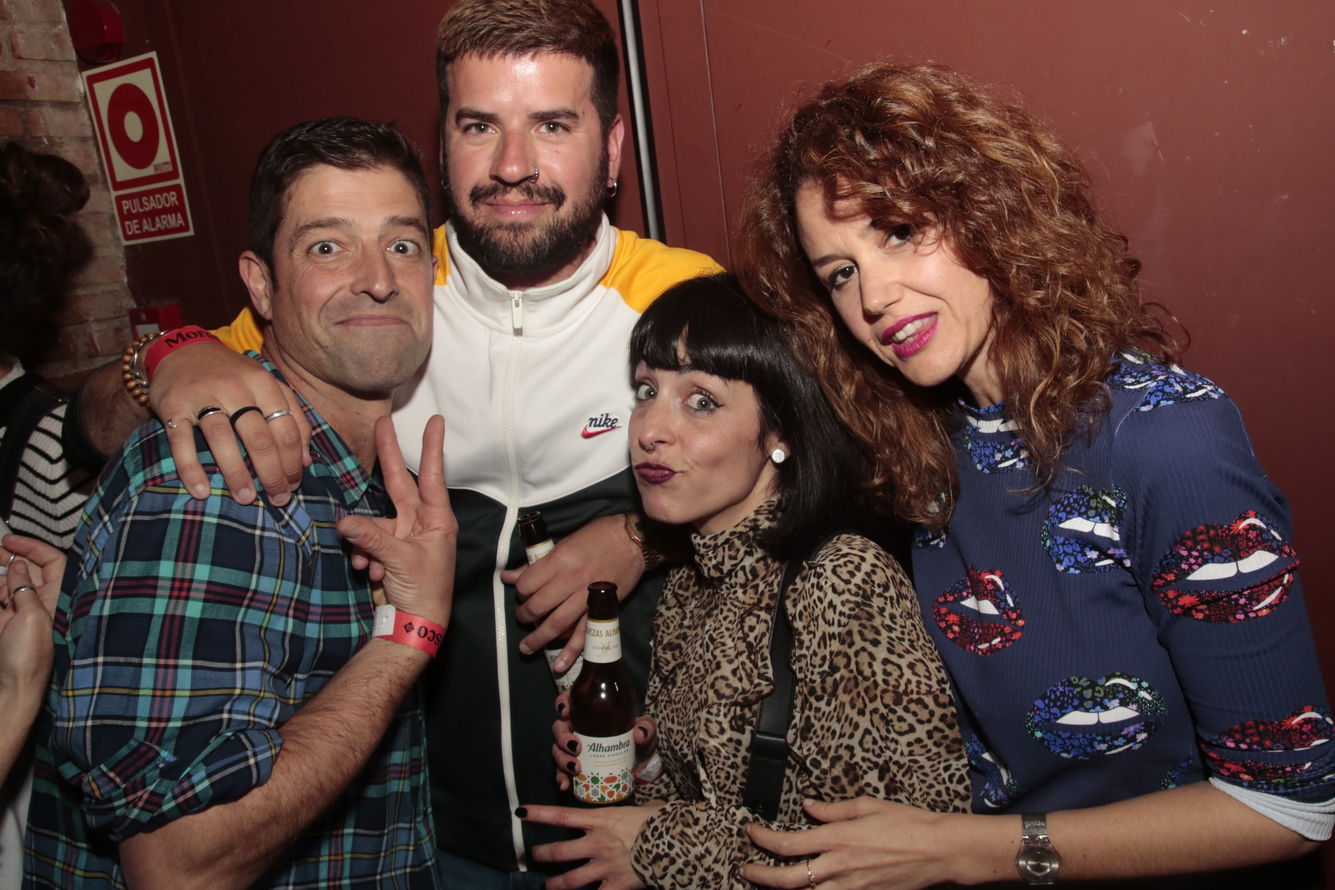
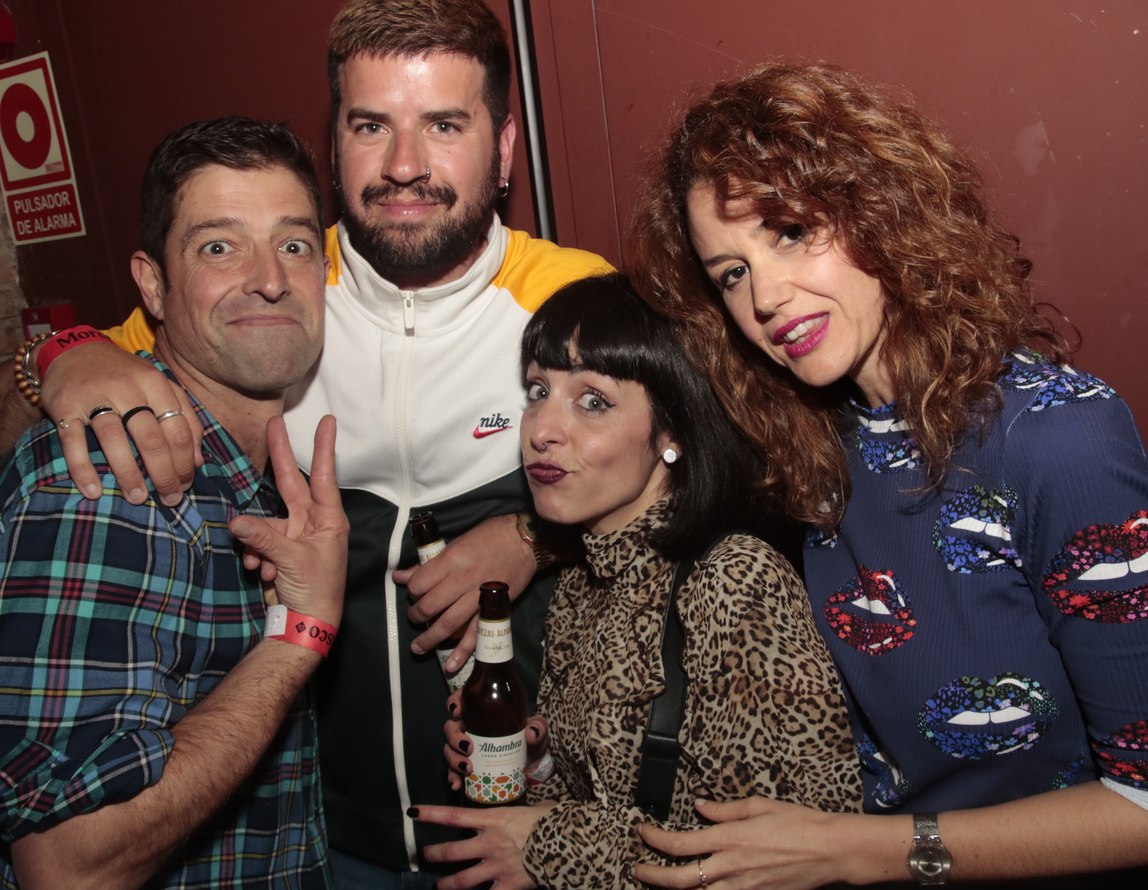
Pure CSS Masonry

diff --git a/src/components/Photo.jsx b/src/components/Photo.jsx
@@ -1,10 +1,9 @@
 import React, { useEffect, useState } from 'react'
 import Loading from './Loading'
 
-export default function Photo(
-  { path, photo } = { src: '', width: 3, height: 2 }
-) {
+export default function Photo({ path, photo, dispatch }) {
   const [loading, setLoading] = useState()
+  const [whenLoadedClasses, setWhenLoadedClasses] = useState('')
 
   useEffect(() => {
     if (!photo || photo.file === '') return
@@ -12,15 +11,26 @@ export default function Photo(
     setLoading(true)
   }, [photo.file])
 
+  const handleOnLoad = () => {
+    setLoading(false)
+    setWhenLoadedClasses(
+      'cursor-pointer md:hover:outline md:hover:outline-1 md:hover:outline-pink-500 transition-all'
+    )
+  }
+
+  const handleClick = () => {
+    if (loading) return
+    dispatch({ type: 'SET_PHOTO', photoIndex: photo.index })
+  }
+
   return (
-    <div
-      className='Photo relative z-10 bg-slate-900/40 w-full h-full object-scale-down'
-      style={{ aspectRatio: `${photo.width} / ${photo.height}` }}>
+    <div className='Photo relative z-10 w-full h-full'>
       {loading && <Loading />}
       <img
-        className='rounded-sm w-full h-auto'
+        className={`rounded-sm w-full h-full object-cover ${whenLoadedClasses}`}
         src={`${path}/${photo.file}`}
-        onLoad={() => setLoading(false)}
+        onLoad={handleOnLoad}
+        onClick={handleClick}
       />
     </div>
   )

diff --git a/index.html b/index.html
@@ -21,28 +21,5 @@
   <body>
     <div id="root"></div>
     <script type="module" src="/src/main.jsx"></script>
-
-    <!-- <script>
-      <div class="w-full sm:w-1/2 xl:w-1/4 p-10" id="disqus_thread"></div>
-      /**
-       *  RECOMMENDED CONFIGURATION VARIABLES: EDIT AND UNCOMMENT THE SECTION BELOW TO INSERT DYNAMIC VALUES FROM YOUR PLATFORM OR CMS.
-       *  LEARN WHY DEFINING THESE VARIABLES IS IMPORTANT: https://disqus.com/admin/universalcode/#configuration-variables    */
-      var disqus_config = function () {
-        this.page.url = 'http://mordisco.club' // Replace PAGE_URL with your page's canonical URL variable
-        this.page.identifier = 'mordisco.club.home' // Replace PAGE_IDENTIFIER with your page's unique identifier variable
-      }
-      ;(function () {
-        // DON'T EDIT BELOW THIS LINE
-        var d = document,
-          s = d.createElement('script')
-        s.src = 'https://mordisco.disqus.com/embed.js'
-        s.setAttribute('data-timestamp', +new Date())
-        ;(d.head || d.body).appendChild(s)
-      })()
-    </script>
-    <script
-      id="dsq-count-scr"
-      src="//mordisco.disqus.com/count.js"
-      async></script> -->
   </body>
 </html>

diff --git a/src/components/Gallery.jsx b/src/components/Gallery.jsx
@@ -3,17 +3,15 @@ import Photo from './Photo'
 
 export default function Gallery({ album, dispatch }) {
   return (
-    <div className='Gallery px-5 grid gap-5 grid-cols-1 sm:grid-cols-2 md:grid-cols-3 lg:grid-cols-4 xl:md:grid-cols-5'>
-      {album.photos.map((photo, index) => (
-        <div
-          key={`g-${index}`}
-          className='w-full h-auto cursor-pointer rounded-sm md:hover:outline md:hover:outline-1 md:hover:outline-pink-500 transition-all'
-          onClick={() => {
-            dispatch({ type: 'SET_PHOTO', photoIndex: index })
-          }}>
-          <Photo path={album.path} photo={photo} />
-        </div>
-      ))}
+    <div className='masonry'>
+      {album.photos.map((photo, index) => {
+        const { cols = 2 } = photo
+        return (
+          <div key={`g-${index}`} className={`col col--${cols}x`}>
+            <Photo path={album.path} photo={photo} dispatch={dispatch} />
+          </div>
+        )
+      })}
     </div>
   )
 }

diff --git a/src/js/app.js b/src/js/app.js
@@ -11,6 +11,11 @@ let DATA = {
 
 const albums_path = 'public/data/albums'
 
+function xCol({ w, h }) {
+  const normal = 2
+  return h > w ? 3 : normal
+}
+
 function createAlbum(path) {
   let album = {
     created_at: TODAY,
@@ -19,14 +24,16 @@ function createAlbum(path) {
   }
 
   const files = fs.readdirSync(path)
-  files.forEach(function (file) {
+  files.forEach(function (file, index) {
     const ext = file.split('.').pop().toLowerCase()
     if (ext === 'jpg' || ext === 'png') {
       const dimensions = sizeOf(path + '/' + file)
       album.photos.push({
         file: file,
+        index: index - 1,
         width: dimensions.width,
         height: dimensions.height,
+        cols: xCol({ w: dimensions.width, h: dimensions.height }),
       })
     }
   })

diff --git a/src/css/index.css b/src/css/index.css
@@ -2,6 +2,28 @@
 @tailwind components;
 @tailwind utilities;
 
+.masonry {
+  @apply grid gap-3;
+  grid-template-columns: repeat(auto-fill, minmax(247px, 1fr));
+  grid-auto-rows: 100px;
+}
+
+.col--1x {
+  grid-row-end: span 1;
+}
+
+.col--2x {
+  grid-row-end: span 2;
+}
+
+.col--3x {
+  grid-row-end: span 3;
+}
+
+.col--4x {
+  grid-row-end: span 4;
+}
+
 html,
 body,
 #root {

diff --git a/src/pages/Photos.jsx b/src/pages/Photos.jsx
@@ -21,7 +21,7 @@ export default function Photos() {
   }, [state.hasAlbums])
 
   return (
-    <div className='Photos'>
+    <div className='Photos w-full h-full mx-auto max-w-5xl'>
       <div className='p-12 flex justify-center mx-auto'>
         <Logo />
       </div>
